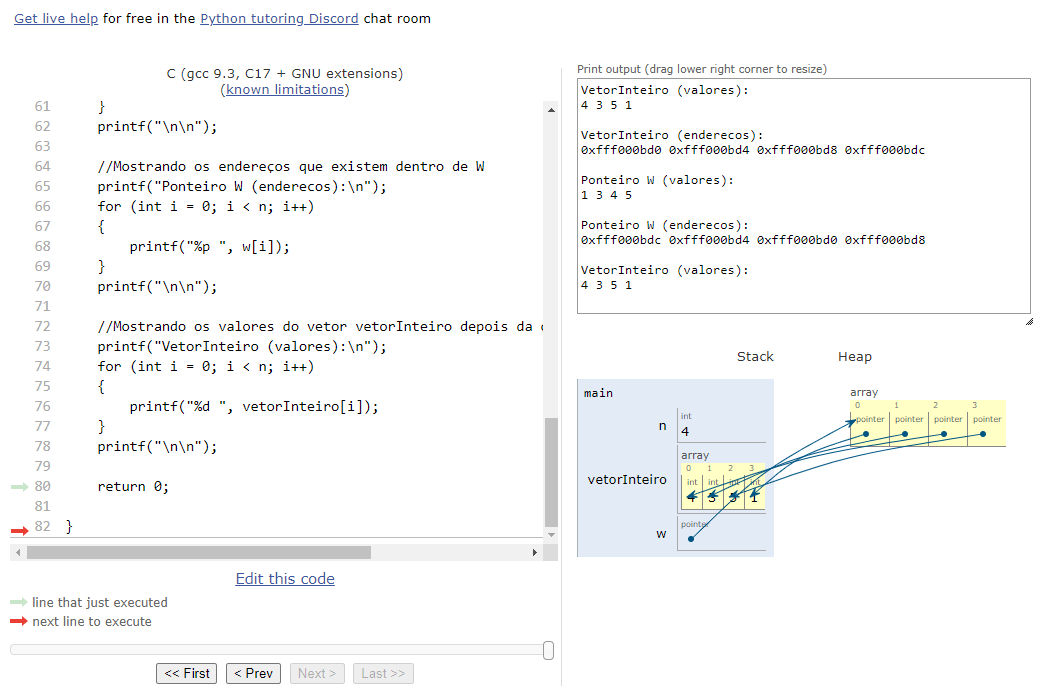
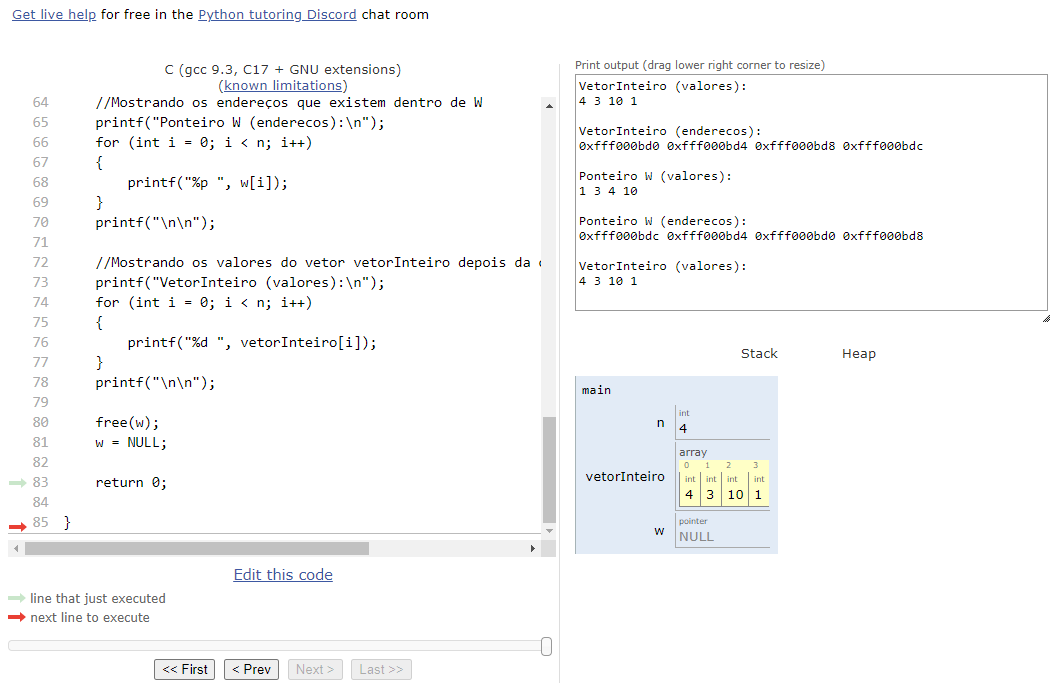
up

diff --git a/Ponteiros/Lista_2/questao-03.c b/Ponteiros/Lista_2/questao-03.c
@@ -77,6 +77,8 @@ int main(){
     }
     printf("\n\n");
 
+    free(w);
+
     return 0;
     
 }
